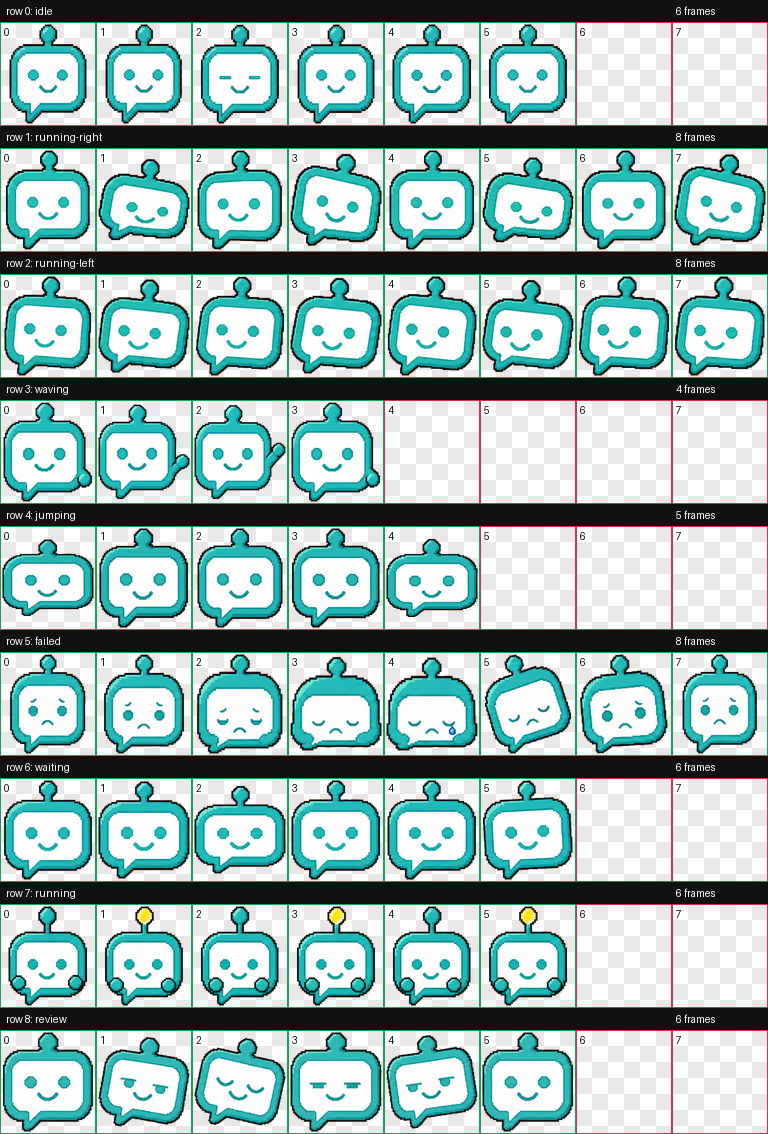
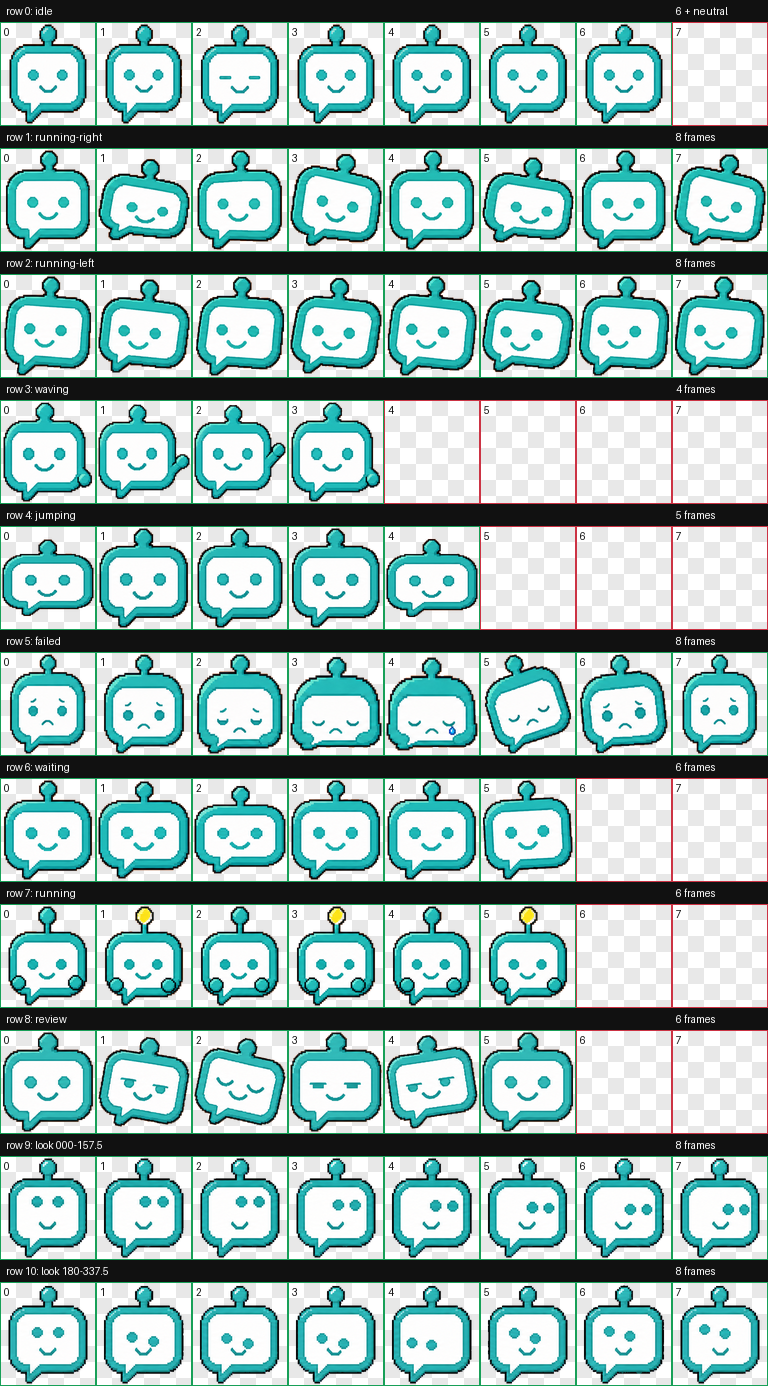
Release N'KaoJai v2 pet

diff --git a/codex-pet/README.md b/codex-pet/README.md
@@ -7,7 +7,7 @@ Nong Kaojai is a Codex custom pet based on the Kaojai.ai teal chat-bubble mascot
 ## Package Contents
 
 - `pet.json` - Codex pet manifest.
-- `spritesheet.webp` - 1536x1872 animated pet atlas.
+- `spritesheet.webp` - 1536x2288 v2 animated pet atlas.
 - `scripts/install.sh` - local installer for Codex.
 - `docs/pet-gif.gif` - quick animated preview.
 - `docs/contact-sheet.png` - visual QA contact sheet.
@@ -35,6 +35,16 @@ ${CODEX_HOME:-$HOME/.codex}/pets/nong-kaojai
 
 Restart Codex after installing if the pet list does not refresh immediately.
 
+## Install From A Release
+
+Download `nong-kaojai-v2.zip` from [GitHub Releases](https://github.com/kaojai-ai/nong-kaojai/releases), then extract it into:
+
+```text
+${CODEX_HOME:-$HOME/.codex}/pets
+```
+
+The archive already contains the required `nong-kaojai/` directory.
+
 ## Manual Install
 
 ```sh
@@ -58,15 +68,28 @@ The manifest points to `spritesheet.webp` by relative path, so both files must s
 - `running-right` and `running-left` move the speech-bubble mascot without adding legs.
 - `waving` uses a small temporary arm for the greeting.
 - `running` is the active/in-progress loop and includes the yellow antenna blink.
+- Rows 9-10 provide the v2 direction frames required by current Codex versions.
 - Unused atlas cells are transparent.
 
 ## QA
 
 The atlas was generated through the `hatch-pet` workflow and validated with:
 
-- 1536x1872 WebP atlas.
+- 1536x2288 WebP v2 atlas.
 - 192x208 frame cells.
+- Original visible design and actions preserved across rows 0-8.
+- Blind cardinal-direction and independent final visual QA passed.
 - Transparent unused cells.
 - No validation errors or warnings.
 
 See [`docs/contact-sheet.png`](./docs/contact-sheet.png) for the full row-by-row preview.
+
+## Build A Shareable ZIP
+
+From the repository root:
+
+```sh
+./codex-pet/scripts/build.sh
+```
+
+This creates `codex-pet/dist/nong-kaojai-v2.zip`. Every push to `main` runs the same build and publishes the ZIP as a uniquely tagged GitHub prerelease.

diff --git a/README.md b/README.md
@@ -10,6 +10,8 @@ This repository is a home for lightweight experiments that make internal tools f
 | --- | --- |
 | [`codex-pet`](./codex-pet) | Nong Kaojai, a custom Codex pet based on the Kaojai.ai chat-bubble mascot. |
 
+Download the newest installable ZIP from [GitHub Releases](https://github.com/kaojai-ai/nong-kaojai/releases).
+
 ## Repository Guidelines
 
 - Keep each toy self-contained.
